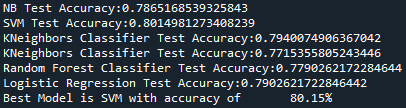
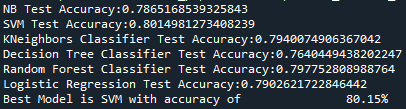
second commit

diff --git a/modules.py b/modules.py
@@ -1,7 +1,6 @@
 
 import pickle
 import seaborn as sns
-import pandas as pd
 import matplotlib.pyplot as plt
 from sklearn.preprocessing import LabelEncoder,MinMaxScaler
 from sklearn.impute import KNNImputer
@@ -86,7 +85,7 @@ class ModelEvaluation():
         best_scaler = 0
         best_pipeline = ''
         pipe_dict = {0:'NB', 1:'SVM', 2:'KNeighbors Classifier', 
-                     3:'KNeighbors Classifier',4:'Random Forest Classifier',
+                     3:'Decision Tree Classifier',4:'Random Forest Classifier',
                      5: 'Logistic Regression'}
         for i,model in enumerate(pipelines):
             predictions.append(model.predict(data_1))
